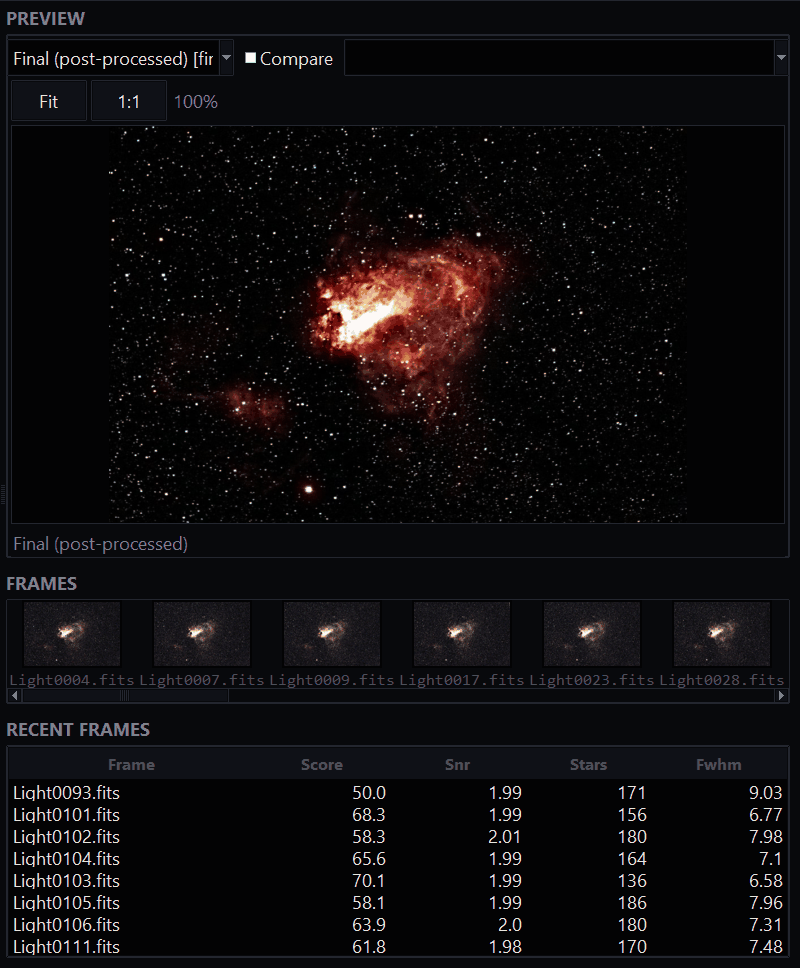
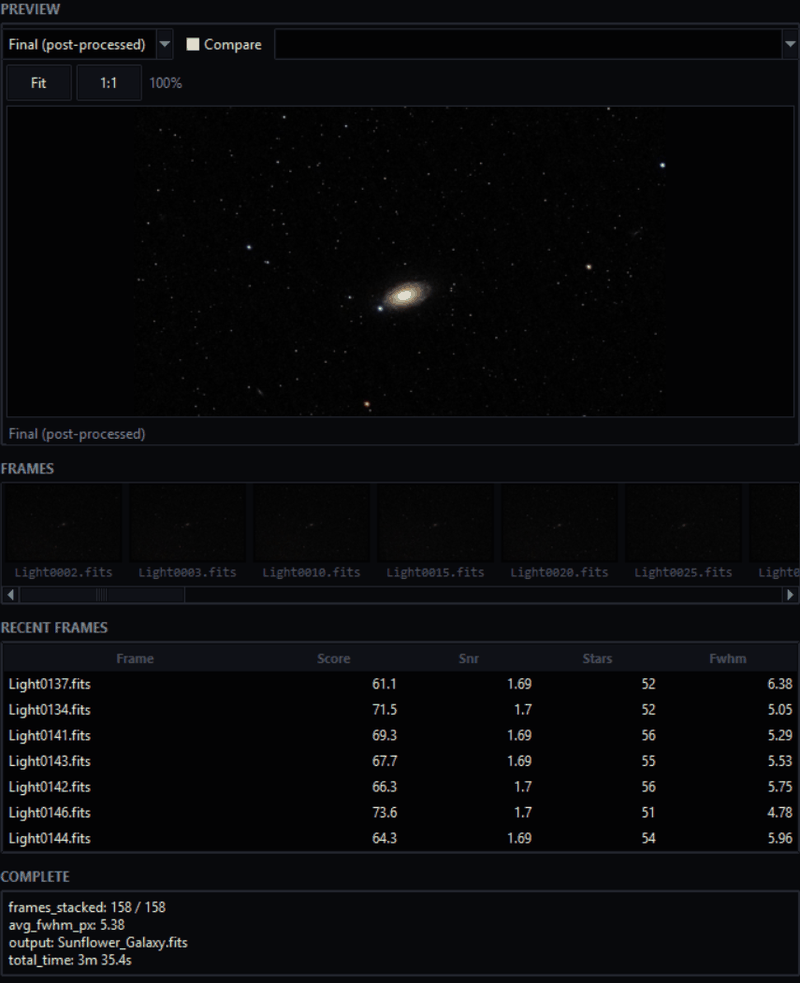
Website: new app screenshots
The four screenshots showed the old Setup form. New ones from a real
Sunflower run of the current app: before a run (target cards with the
suggested one, run mode, example image, This run summary; replaces the
early-scoring shot), part-way through post-processing, the finished
result, and Additional options with descriptions and search. Captions,
alt text and the section intro updated to match.

diff --git a/docs/index.html b/docs/index.html
@@ -129,24 +129,24 @@
 <section id="app">
   <div class="wrap">
     <h2>Watch it work, or skip the settings</h2>
-    <p class="intro measure">Point the app at a folder of frames and press Run. Every option is one form, and the defaults choose settings for your target. These are real screens from stacking the Omega frames above.</p>
+    <p class="intro measure">Point the app at a folder of frames, say what you imaged (or let it work that out), and press Start. Every setting has a one-line explanation, and the defaults choose the rest for your target. These are real screens from stacking the Sunflower Galaxy frames used in the comparisons below.</p>
 
     <div class="shots">
       <figure class="shot big">
-        <img src="img/app-running.png" width="1600" height="1040" loading="lazy" alt="The OriginStack window during a run: settings on the left, three of four pipeline phases marked done, the log below, and on the right a preview of the linear stack of the Omega Nebula with a strip of frame thumbnails and a table of per-frame scores.">
-        <figcaption>Part-way through the Omega run. Phases 1 to 3 are done, the linear stack is already in the preview, and the finishing pass is starting.</figcaption>
+        <img src="img/app-running.png" width="1600" height="1029" loading="lazy" alt="The OriginStack window during a run: the folder and output on the left with picture cards for the target type and the run mode, three of four pipeline phases marked done and the log below; on the right a preview of the Sunflower Galaxy part-way through post-processing, a strip of frame thumbnails and a table of per-frame scores.">
+        <figcaption>Part-way through the Sunflower run. Phases 1 to 3 are done, and the preview follows each finishing step as it happens.</figcaption>
       </figure>
       <figure class="shot s7">
-        <img src="img/app-scoring.png" width="1600" height="1040" loading="lazy" alt="The OriginStack window early in a run, with a folder chosen, its frame counts listed under it, the log, and a table of frame scores filling in.">
-        <figcaption>Early on, while frames are scored. Pick a folder and the app counts your lights, darks, flats and bias frames straight away. Each frame's score, signal-to-noise, star count and sharpness land in the table as it finishes.</figcaption>
+        <img src="img/app-setup.png" width="1600" height="1029" loading="lazy" alt="The OriginStack window before a run: a folder chosen with its frame counts and the target name from the session file under it, picture cards for Auto-detect, Galaxy (marked Suggested), Nebula, Star cluster, Star field and Comet, a choice of Full quality or Quick look, an example galaxy image in the preview, and a This run summary of frames, target, mode, changed settings and output file.">
+        <figcaption>Before a run. Pick a folder and the app counts your frames, reads the target from the session and suggests a card; the preview shows an example result and This run says exactly what Start will do.</figcaption>
       </figure>
       <figure class="shot s5">
-        <img src="img/app-done.png" width="800" height="968" loading="lazy" alt="The preview and frame panels after the run finished, showing the final image of the Omega Nebula.">
+        <img src="img/app-done.png" width="800" height="983" loading="lazy" alt="The preview and frame panels after the run finished, showing the final image of the Sunflower Galaxy and a summary: 158 of 158 frames stacked in 3 minutes 35 seconds.">
         <figcaption>When it finishes you can zoom and pan the result, or wipe between the linear stack and the finished image.</figcaption>
       </figure>
       <figure class="shot s7">
-        <img src="img/app-expert.png" width="800" height="456" loading="lazy" alt="The Additional options panel with Expert options ticked, listing registration and stacking controls such as banding removal and distortion model.">
-        <figcaption>Around a hundred more options sit under Additional options. The rarer ones stay hidden until you tick Expert options.</figcaption>
+        <img src="img/app-expert.png" width="800" height="627" loading="lazy" alt="The Additional options panel with a search box and a list of groups, showing registration and stacking options such as proper image coaddition, banding removal and the distortion model, each with a one-line description.">
+        <figcaption>Around a hundred more options sit under Additional options, each with a one-line description and a search box to find them; the rarer ones stay hidden until you tick Expert options.</figcaption>
       </figure>
     </div>
   </div>
